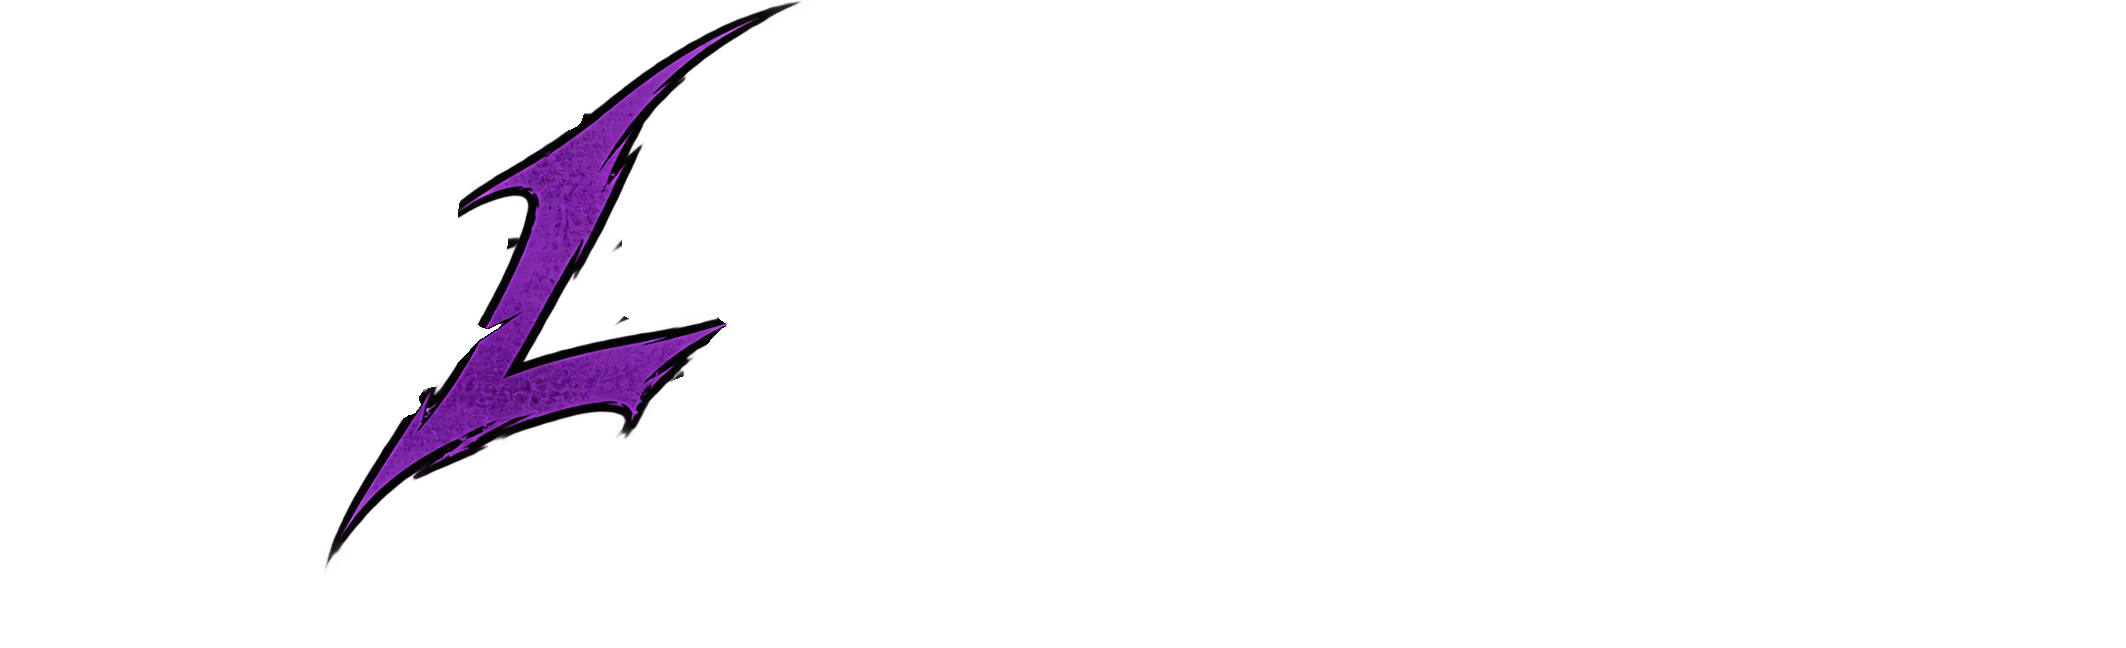
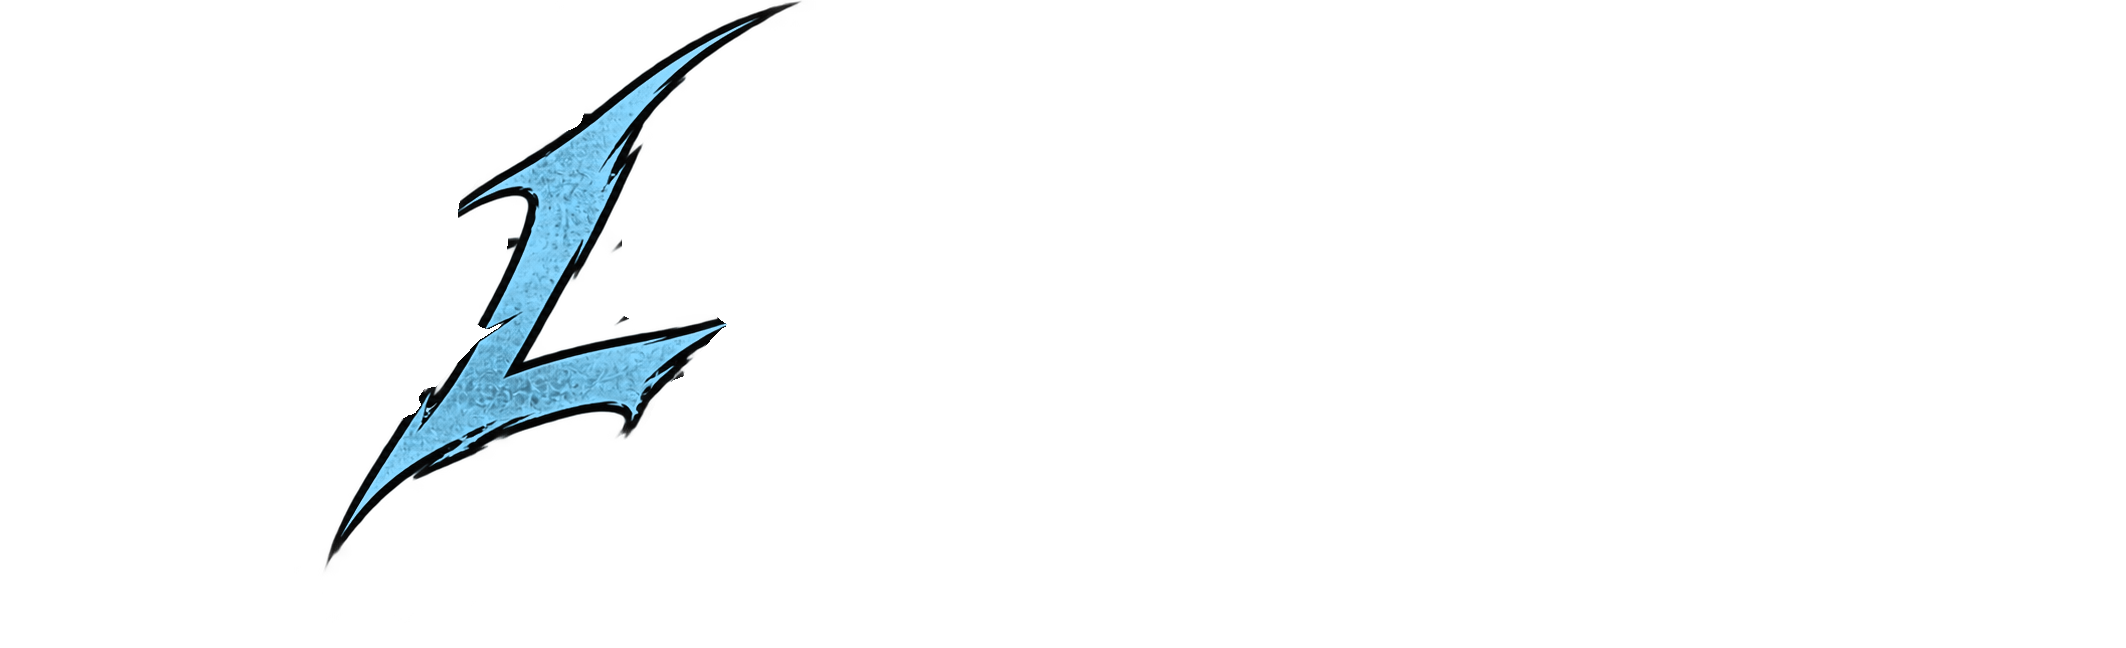
Preview: ice theme (white and light blue, matching the intro video)
Claude-Session: https://claude.ai/code/session_01Ue3B1bTxKEJx7ur25PNsve

Changed region(s): [[0.1552, 0.1235, 0.3415, 0.7716], [0.3104, 0.0617, 0.3415, 0.1235]]

diff --git a/index.html b/index.html
@@ -1072,18 +1072,18 @@ select.in { -webkit-appearance: none; appearance: none; }
    slanted blade-cut buttons. Overrides everything above.
    ====================================================================== */
 :root {
-  --bg: #060409; --panel: #0d0914; --ink: #f1ecf8; --soft: #cbc1db;
-  --muted: #998cb0; --dim: #5f5375; --line: #1e1529; --line2: #2f2240;
-  --red: #7c2cf0; --red2: #a974ff;
+  --bg: #040709; --panel: #090f14; --ink: #ecf3f8; --soft: #c1d0db;
+  --muted: #8ca1b0; --dim: #536775; --line: #152129; --line2: #223340;
+  --red: #2c9ef0; --red2: #74c5ff;
   --red-rgb: 124, 44, 240; --red2-rgb: 169, 116, 255;
-  --shadow: rgba(124, 44, 240, .38);
+  --shadow: rgba(44, 158, 240, .38);
 }
-::selection { background: rgba(124, 44, 240, .55); color: #fff; }
-html { scrollbar-color: #3a2856 #060409; }
+::selection { background: rgba(44, 158, 240, .55); color: #fff; }
+html { scrollbar-color: #284356 #040709; }
 /* screentone: fine halftone dots over everything, strongest at the edges */
 body:before {
   content: ""; position: fixed; inset: 0; z-index: 0; pointer-events: none;
-  background: radial-gradient(circle, rgba(169,116,255,.22) 0 .8px,
+  background: radial-gradient(circle, rgba(116,197,255,.22) 0 .8px,
     transparent 1.2px) 0 0 / 6px 6px;
   -webkit-mask: radial-gradient(80% 75% at 50% 45%, transparent 40%,
     #000 100%);
@@ -1094,7 +1094,7 @@ body:before {
 
 /* ---- entry screens ---- */
 .door {
-  background: radial-gradient(60% 50% at 50% 30%, #12081f 0%, #060309 52%,
+  background: radial-gradient(60% 50% at 50% 30%, #08151f 0%, #030609 52%,
     #000 100%);
   isolation: isolate;
 }
@@ -1109,12 +1109,12 @@ body:before {
 }
 .door-mark {
   font: 700 clamp(46px, 8vw, 112px)/1 "Cinzel", Georgia, serif;
-  letter-spacing: .16em; padding-left: .16em; color: #f4efff;
-  text-shadow: 4px 4px 0 #000, 7px 7px 0 rgba(124,44,240,.55);
+  letter-spacing: .16em; padding-left: .16em; color: #eff8ff;
+  text-shadow: 4px 4px 0 #000, 7px 7px 0 rgba(44,158,240,.55);
 }
 .door-mark .a { color: var(--red2);
-  text-shadow: 4px 4px 0 #000, 7px 7px 0 rgba(124,44,240,.7),
-    0 0 26px rgba(169,116,255,.45); }
+  text-shadow: 4px 4px 0 #000, 7px 7px 0 rgba(44,158,240,.7),
+    0 0 26px rgba(116,197,255,.45); }
 .door .stack .door-mark { font-size: clamp(34px, 5vw, 64px); }
 .door .rule i { background: linear-gradient(90deg, transparent, var(--red)); }
 .door .rule i + b + i { background: linear-gradient(90deg, var(--red),
@@ -1126,9 +1126,9 @@ body:before {
   align-items: center; text-align: center; }
 .vl-kick {
   margin: 0 0 22px; padding: 6px 14px 5px; background: #000;
-  border: 1px solid rgba(169,116,255,.45); color: var(--red2);
+  border: 1px solid rgba(116,197,255,.45); color: var(--red2);
   font: 600 10px/1 var(--sans); letter-spacing: .42em; text-transform: uppercase;
-  box-shadow: 4px 4px 0 rgba(124,44,240,.45);
+  box-shadow: 4px 4px 0 rgba(44,158,240,.45);
 }
 .vl-tag {
   margin: 26px 0 0; color: var(--soft);
@@ -1143,20 +1143,20 @@ body:before {
 /* ---- buttons: slanted blade cuts, hard ink shadow ---- */
 .btn, .btn.lit, .sb, .ghost {
   border-radius: 0; color: #fff; border: 0;
-  background: linear-gradient(100deg, #5b16c8 0%, var(--red) 55%,
-    #9b5cff 100%);
+  background: linear-gradient(100deg, #167ec8 0%, var(--red) 55%,
+    #5cbbff 100%);
   clip-path: polygon(12px 0, 100% 0, calc(100% - 12px) 100%, 0 100%);
   box-shadow: none; filter: drop-shadow(4px 4px 0 #000);
   letter-spacing: .2em; text-transform: uppercase;
   transition: filter .15s ease, transform .15s ease;
 }
 .btn:hover, .btn.lit:hover, .sb:hover, .ghost:hover {
-  background: linear-gradient(100deg, #6a1fe0 0%, #8b3dff 55%, #b98aff 100%);
+  background: linear-gradient(100deg, #1f90e0 0%, #3daeff 55%, #8aceff 100%);
   filter: drop-shadow(5px 5px 0 #000) brightness(1.08);
   transform: translate(-1px, -1px);
 }
 .btn:disabled, .btn.lit:disabled, .btn:disabled:hover {
-  background: #2a1f3a; color: #7c6f92; transform: none;
+  background: #1f2f3a; color: #7c6f92; transform: none;
   filter: drop-shadow(4px 4px 0 #000);
 }
 .btn.lit:after { display: none; }
@@ -1164,57 +1164,57 @@ body:before {
   background: transparent; color: var(--soft);
   clip-path: none; filter: none; border: 1px solid var(--line2);
 }
-.sb.line:hover, .ghost.line:hover { background: rgba(124,44,240,.12);
+.sb.line:hover, .ghost.line:hover { background: rgba(44,158,240,.12);
   border-color: var(--red); color: #fff; transform: none; filter: none; }
 .sb.red { background: #3a0d1a; }
 
 /* ---- the members' area ---- */
 .app { background:
-  radial-gradient(70% 40% at 50% -8%, rgba(124,44,240,.22), transparent 70%),
+  radial-gradient(70% 40% at 50% -8%, rgba(44,158,240,.22), transparent 70%),
   var(--bg); background-attachment: fixed; }
-.top { background: rgba(6,4,9,.92); border-bottom: 1px solid #2a1c3d;
-  box-shadow: 0 1px 0 rgba(169,116,255,.08); }
+.top { background: rgba(4,7,9,.92); border-bottom: 1px solid #1c2f3d;
+  box-shadow: 0 1px 0 rgba(116,197,255,.08); }
 .brand.bmk { letter-spacing: .2em; }
 .bmk .a { color: var(--red2);
-  text-shadow: 0 0 12px rgba(169,116,255,.75), 0 0 28px rgba(124,44,240,.5); }
+  text-shadow: 0 0 12px rgba(116,197,255,.75), 0 0 28px rgba(44,158,240,.5); }
 .nav a { color: var(--muted); }
 .nav a:hover { color: #fff; }
 .nav a.on { color: #fff; }
 .nav a.on:after { height: 3px; background: var(--red2); transform: skewX(-30deg);
-  box-shadow: 0 0 12px rgba(169,116,255,.8); }
+  box-shadow: 0 0 12px rgba(116,197,255,.8); }
 /* manga panels: square corners, ink border, hard purple shadow */
 .rail, .player, .pcard, .ptile, .acard, .apanel, .modal-in, .codebox {
   border-radius: 0;
-  border: 1px solid #2c1f40;
-  background: linear-gradient(180deg, #120b1d 0%, #0b0711 60%);
-  box-shadow: 6px 6px 0 rgba(0,0,0,.9), 6px 6px 0 1px rgba(124,44,240,.35);
+  border: 1px solid #1f3240;
+  background: linear-gradient(180deg, #0b151d 0%, #070d11 60%);
+  box-shadow: 6px 6px 0 rgba(0,0,0,.9), 6px 6px 0 1px rgba(44,158,240,.35);
 }
 .player { background: #000; }
-.display { text-shadow: 3px 3px 0 #000, 5px 5px 0 rgba(124,44,240,.45); }
-.rhead .pc { color: var(--red2); text-shadow: 0 0 14px rgba(169,116,255,.6); }
+.display { text-shadow: 3px 3px 0 #000, 5px 5px 0 rgba(44,158,240,.45); }
+.rhead .pc { color: var(--red2); text-shadow: 0 0 14px rgba(116,197,255,.6); }
 .play {
-  background: radial-gradient(circle at 35% 30%, #d8c2ff 0%, var(--red2) 35%,
+  background: radial-gradient(circle at 35% 30%, #c2e6ff 0%, var(--red2) 35%,
     var(--red) 100%);
-  box-shadow: 0 0 0 10px rgba(124,44,240,.14), 0 0 40px rgba(124,44,240,.45);
+  box-shadow: 0 0 0 10px rgba(44,158,240,.14), 0 0 40px rgba(44,158,240,.45);
 }
 @keyframes breathe {
-  0%, 100% { box-shadow: 0 0 0 10px rgba(124,44,240,.12),
-    0 0 40px rgba(124,44,240,.35); }
-  50% { box-shadow: 0 0 0 18px rgba(124,44,240,.16),
-    0 0 60px rgba(124,44,240,.55); }
+  0%, 100% { box-shadow: 0 0 0 10px rgba(44,158,240,.12),
+    0 0 40px rgba(44,158,240,.35); }
+  50% { box-shadow: 0 0 0 18px rgba(44,158,240,.16),
+    0 0 60px rgba(44,158,240,.55); }
 }
-.poster .num { -webkit-text-stroke: 1px rgba(169,116,255,.18); }
+.poster .num { -webkit-text-stroke: 1px rgba(116,197,255,.18); }
 .search, .in, input[type="text"], input[type="search"], textarea, select {
-  border-radius: 0; background: #08050d; border-color: #2c1f40; }
+  border-radius: 0; background: #050a0d; border-color: #1f3240; }
 .search:focus, .in:focus { border-color: var(--red);
-  box-shadow: 0 0 0 3px rgba(124,44,240,.18); }
-.seg button.on { background: rgba(124,44,240,.25); color: #fff;
+  box-shadow: 0 0 0 3px rgba(44,158,240,.18); }
+.seg button.on { background: rgba(44,158,240,.25); color: #fff;
   box-shadow: inset 0 -2px 0 var(--red2); }
-.toast { border-radius: 0; background: #0b0711; color: var(--ink);
+.toast { border-radius: 0; background: #070d11; color: var(--ink);
   border: 1px solid var(--red); box-shadow: 5px 5px 0 #000,
-    0 0 30px rgba(124,44,240,.3); }
-.ann { background: linear-gradient(90deg, #1a0b2e, #0b0711);
-  border-bottom: 1px solid #2c1f40; }
+    0 0 30px rgba(44,158,240,.3); }
+.ann { background: linear-gradient(90deg, #0b1f2e, #070d11);
+  border-bottom: 1px solid #1f3240; }
 
 /* ---- front page: the eyes loop behind, everything lands on top ---- */
 .vbg { justify-content: center; padding: 0 24px;
@@ -1234,7 +1234,7 @@ body:has(#v-login.vl-play:not(.vl-live)):before { display: none; }
 .vl-by { position: absolute; right: 30px; bottom: 26px; z-index: 3;
   margin: 0; pointer-events: none; user-select: none; opacity: 0;
   font: italic 400 13px/1 "Cinzel", Georgia, serif; letter-spacing: .24em;
-  color: #d9c8ff; text-shadow: 0 0 10px #000, 0 1px 2px #000;
+  color: #c8e8ff; text-shadow: 0 0 10px #000, 0 1px 2px #000;
   transition: opacity 1.2s ease; }
 .vl-live .vl-by { opacity: .62; transition-delay: 4.6s; }
 .vl-quick .vl-by, .vl-calm .vl-by { transition-delay: 0s; }
@@ -1242,7 +1242,7 @@ body:has(#v-login.vl-play:not(.vl-live)):before { display: none; }
   padding: 10px 4px; background: none; border: 0; cursor: pointer;
   font-family: inherit; font-size: 11px; font-weight: 600; line-height: 1;
   letter-spacing: .3em; text-transform: uppercase;
-  color: #e9e1ff; opacity: .6; text-shadow: 0 0 8px #000, 0 1px 2px #000;
+  color: #e1f2ff; opacity: .6; text-shadow: 0 0 8px #000, 0 1px 2px #000;
   transition: opacity .3s ease; }
 .vl-skip:hover, .vl-skip:focus-visible { opacity: 1; }
 .vl-live .vl-skip, .vl-calm .vl-skip { opacity: 0; visibility: hidden;
@@ -1264,14 +1264,14 @@ body:has(#v-login.vl-play:not(.vl-live)):before { display: none; }
 @media (max-width: 700px) {
   .vbg { padding-bottom: 0; }
   .door-mark, .door-mark .a { text-shadow: 3px 3px 0 #000,
-    4px 4px 0 rgba(124,44,240,.45); }
+    4px 4px 0 rgba(44,158,240,.45); }
 }
 
 /* ---- spiky logo ---- */
 .vl-logo { margin: 0; line-height: 0; }
 .door-logo { display: block; width: min(720px, 62vw); height: auto;
   margin: 0 auto; user-select: none; -webkit-user-drag: none;
-  filter: drop-shadow(0 0 26px rgba(124,44,240,.35))
+  filter: drop-shadow(0 0 26px rgba(44,158,240,.35))
     drop-shadow(5px 6px 0 rgba(0,0,0,.85)); }
 .door-logo { width: min(520px, 70vw); margin-bottom: 6px; }
 .vl-kick { margin-bottom: 4px; }
@@ -1287,7 +1287,7 @@ body:has(#v-login.vl-play:not(.vl-live)):before { display: none; }
 /* ---- after the video: ELEVARE breaks down to LVR ---- */
 .vl-mark { position: relative; display: block; width: min(720px, 62vw);
   aspect-ratio: 1600 / 488; margin: 0 auto; container-type: inline-size;
-  filter: drop-shadow(0 0 26px rgba(124,44,240,.35))
+  filter: drop-shadow(0 0 26px rgba(44,158,240,.35))
     drop-shadow(5px 6px 0 rgba(0,0,0,.85)); }
 .lp { position: absolute; inset: 0; width: 100%; height: 100%;
   user-select: none; -webkit-user-drag: none; }
@@ -1302,7 +1302,7 @@ body:has(#v-login.vl-play:not(.vl-live)):before { display: none; }
   animation: wake 2.4s ease-in-out 2.2s both; }
 @keyframes wake {                /* the purple letters wake as the ink leaves */
   0% { filter: none; }
-  45% { filter: brightness(1.22) drop-shadow(0 0 1.4cqw rgba(169,116,255,.5)); }
+  45% { filter: brightness(1.22) drop-shadow(0 0 1.4cqw rgba(116,197,255,.5)); }
   100% { filter: none; }
 }
 .vl-fx { position: absolute; width: 0; height: 0; }
@@ -1333,8 +1333,8 @@ body:has(#v-login.vl-play:not(.vl-live)):before { display: none; }
 .vl-glow { position: absolute; left: 0; top: 0; z-index: 1; width: 290px;
   height: 290px; margin: -145px 0 0 -145px; border-radius: 50%;
   pointer-events: none; opacity: 0; mix-blend-mode: screen;
-  background: radial-gradient(closest-side, rgba(160,100,255,.2),
-    rgba(124,44,240,.08) 55%, transparent);
+  background: radial-gradient(closest-side, rgba(100,190,255,.2),
+    rgba(44,158,240,.08) 55%, transparent);
   will-change: transform; transition: opacity .6s ease; }
 .vl-live.vl-hover .vl-glow { opacity: 1; }
 </style>
@@ -3995,7 +3995,7 @@ body:has(#v-login.vl-play:not(.vl-live)):before { display: none; }
         t.setAttribute('baseFrequency', (0.012 + k * 0.006).toFixed(4) + ' ' +
           (0.03 - k * 0.012).toFixed(4));
         r.style.filter = k < 1 ? 'url(#vl-ink) blur(' + (k * 4).toFixed(2) +
-          'px) sepia(' + k.toFixed(2) + ') hue-rotate(235deg) saturate(' +
+          'px) sepia(' + k.toFixed(2) + ') hue-rotate(167deg) saturate(' +
           (1 + 3 * k).toFixed(2) + ') brightness(' +
           (1 - 0.55 * k).toFixed(2) + ')' : '';
         if (k < 1) requestAnimationFrame(f);

diff --git a/brand.js b/brand.js
@@ -26,8 +26,8 @@
 
   // Accent colour (buttons, dots, highlights) and a brighter version of it
   // (numbers, labels, the timeout clock). Hex colours.
-  accent: '#7c2cf0',
-  accentBright: '#a974ff',
+  accent: '#2c9ef0',
+  accentBright: '#74c5ff',
 
   // Top-bar wordmark: the name in white with these letter positions
   // (0 = first letter) in the accent colour. [] = all white.
